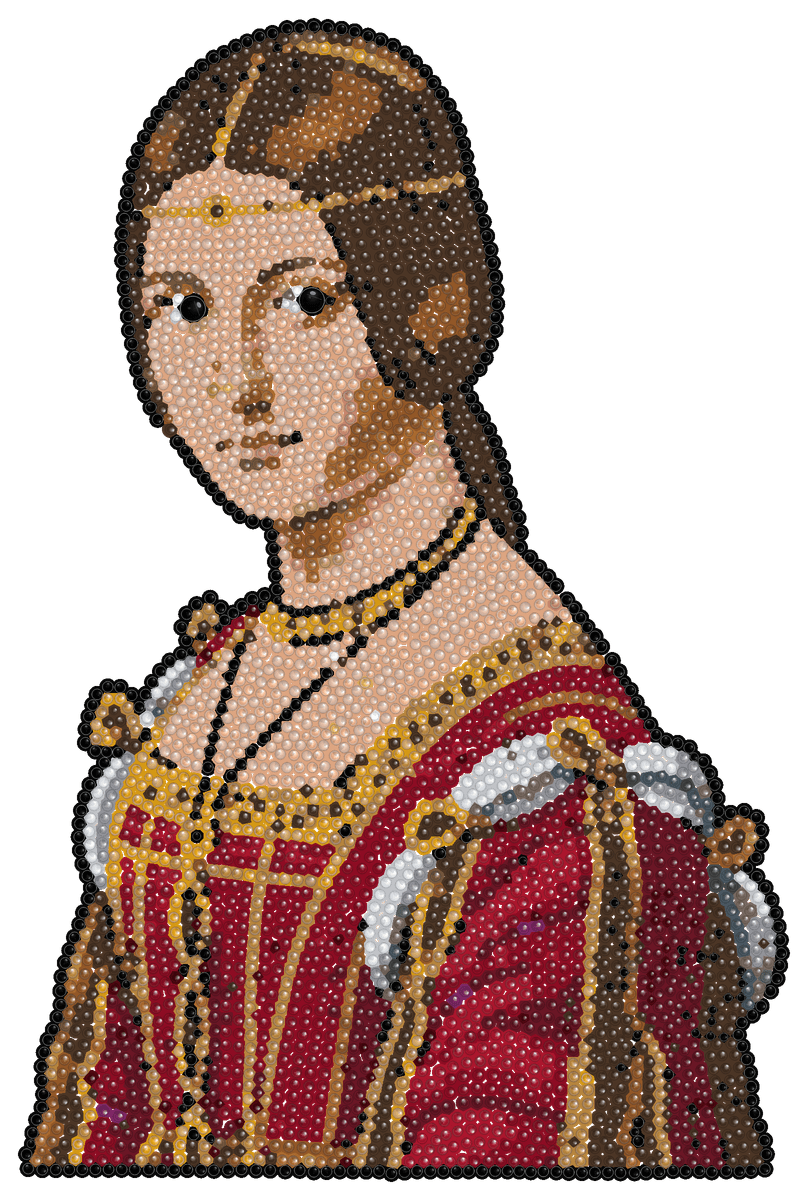
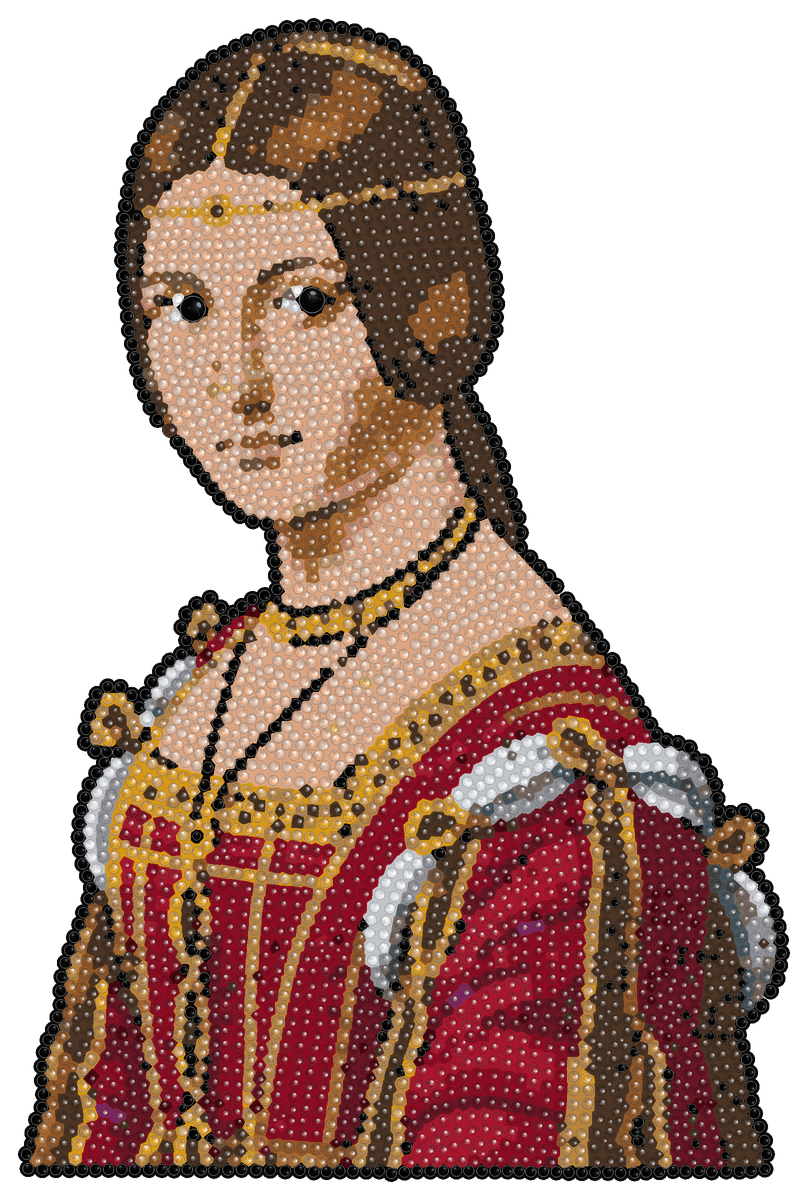
PN-04h: lone white stones in skin take the skin colour
The AI paints small pale highlights on skin (L* about 95, just outside the
snapping rules' warm hue range); they snap to Crystal Clear and read as
holes. New strass rule lone_white_skin (on in DEFAULT, after calm_skin): an
SS4/SS6 Crystal Clear, Crystal or Silver stone with at least four
neighbours, all skin colours, outside 1.5 eye-zone radii, takes its
neighbours' most common colour. Catch-lights, teeth and white areas keep
their colour; positions, sizes and other colours never change. Tests in
tests/test_pn04h.py; spec 7.4, revision line, ORIGIN.md.

make-listing-designs.mjs --replay=<attempt> draws a design again from its
stored AI image with no provider call. Replayed on the live rules, La Belle
Ferronniere came out stone for stone identical; on the new rule only her two
chest stones changed (Crystal Clear -> Silk). That design replaces the
listing one; main photo 00 and the overviews regenerated.

Changed region(s): [[0.4641, 0.5858, 0.495, 0.6167]]

diff --git a/services/strass/tests/test_pn04h.py b/services/strass/tests/test_pn04h.py
@@ -1,0 +1,81 @@
+# IS: new file, not from Rhinestone-Studio.
+"""PN-04h: Rules.lone_white_skin (on in DEFAULT only)."""
+import dataclasses
+import unittest
+
+import numpy as np
+
+from strass_layout import DEFAULT, PROTOTYPE
+from strass_layout.colour import PLUS_REAL_SKIN
+from strass_layout.distinct import SKIN
+from strass_layout.faces import WHITE, lone_white_skin
+from strass_layout.rules import BUILD_E, BUILD_F, BUILD_G, BUILD_H, BUILD_I
+from tests import support
+
+ALL = (PROTOTYPE, BUILD_E, BUILD_F, BUILD_G, BUILD_H, BUILD_I, DEFAULT)
+PAL = PLUS_REAL_SKIN
+
+
+def _hex_grid(rows, cols, pitch=2.1):
+    return np.array([[c * pitch + (r % 2) * pitch / 2, r * pitch * 0.87] for r in range(rows) for c in range(cols)])
+
+
+class Defaults(unittest.TestCase):
+    def test_only_default_has_it(self):
+        for rules in ALL:
+            self.assertEqual(rules.lone_white_skin, rules is DEFAULT)
+
+
+class LoneWhite(unittest.TestCase):
+    def setUp(self):
+        self.P = _hex_grid(5, 5)
+        self.D = np.full(len(self.P), 2.0)
+        self.mid = 12  # row 2, column 2: six neighbours
+
+    def colours(self, centre, around="silk"):
+        C = [around] * len(self.P)
+        C[self.mid] = centre
+        return C
+
+    def test_a_white_stone_in_skin_takes_the_skin_colour(self):
+        for white in sorted(WHITE):
+            out, n = lone_white_skin(self.P, self.D, self.colours(white), PAL, [])
+            self.assertEqual((out[self.mid], n), ("silk", 1), white)
+
+    def test_the_most_common_neighbour_colour_and_on_a_tie_the_lighter(self):
+        C = self.colours("crystal-clear")
+        nb = [i for i in range(len(self.P)) if i != self.mid and np.hypot(*(self.P[i] - self.P[self.mid])) < 2.7]
+        self.assertEqual(len(nb), 6)
+        for k, i in enumerate(nb):
+            C[i] = "rose-gold" if k < 4 else "light-peach"
+        self.assertEqual(lone_white_skin(self.P, self.D, C, PAL, [])[0][self.mid], "rose-gold")
+        for k, i in enumerate(nb):
+            C[i] = "copper" if k < 3 else "light-peach"
+        self.assertEqual(lone_white_skin(self.P, self.D, C, PAL, [])[0][self.mid], "light-peach")
+
+    def test_kept_near_an_eye_next_to_anything_not_skin_and_when_not_white(self):
+        x, y = self.P[self.mid]
+        self.assertEqual(lone_white_skin(self.P, self.D, self.colours("crystal-clear"), PAL, [(x + 2, y, 3.0)])[1], 0)
+        C = self.colours("crystal-clear")
+        C[self.mid + 1] = "jet"
+        self.assertEqual(lone_white_skin(self.P, self.D, C, PAL, [])[1], 0)
+        self.assertEqual(lone_white_skin(self.P, self.D, self.colours("grey"), PAL, [])[1], 0)
+        # Larger than SS6 (a pupil or a cap-sized stone) is left alone.
+        D = self.D.copy()
+        D[self.mid] = 4.7
+        self.assertEqual(lone_white_skin(self.P, D, self.colours("crystal-clear"), PAL, [])[1], 0)
+        # Only skin around it counts: white among white stays.
+        self.assertEqual(lone_white_skin(self.P, self.D, self.colours("crystal-clear", "crystal-clear"), PAL, [])[1], 0)
+
+    def test_on_a_layout_only_white_stones_become_skin(self):
+        on = support.layout_result("woman", DEFAULT)
+        off = support.layout_result("woman", dataclasses.replace(DEFAULT, lone_white_skin=False))
+        self.assertEqual([s[:3] for s in on["stones"]], [s[:3] for s in off["stones"]])
+        for a, b in zip(off["stones"], on["stones"]):
+            if a[3] != b[3]:
+                self.assertIn(a[3], WHITE)
+                self.assertIn(b[3], SKIN)
+
+
+if __name__ == "__main__":
+    unittest.main()

diff --git a/services/strass/strass_layout/faces.py b/services/strass/strass_layout/faces.py
@@ -11,6 +11,9 @@ that shade is a close neighbour on the skin ramp.
 IS (IS-05d, experiment): Rules.warm_shadow lets skin_nearest prefer Colorado Topaz to a near-tie
 Smoked Topaz; Rules.mixed_shadow (mixed_shadow, after calm_skin) alternates the two along the rows
 where the sampled colour lies between them.
+
+IS (PN-04h): Rules.lone_white_skin (lone_white_skin, after calm_skin) gives a lone white stone in
+skin, which reads as a hole, its skin neighbours' colour.
 """
 import numpy as np
 from scipy.spatial import cKDTree
@@ -98,6 +101,31 @@ def skin_nearest(D, C, lab, pal, warm_de=None):
         if new != c:
             out[i] = new
             n += 1
+    return out, n
+
+
+# IS (PN-04h): the near-white stones lone_white_skin recolours.
+WHITE = {"crystal-clear", "crystal", "silver"}
+
+
+def lone_white_skin(P, D, C, pal, eyes, nb=None):
+    """IS (PN-04h): an SS4 or SS6 WHITE stone with at least four neighbours, all of them in skin
+    colours, outside 1.5 eye-zone radii (so a pupil's catch-light stays), takes the colour most of
+    its neighbours have (on a tie the lighter one). The AI paints such a stone as a highlight on
+    skin; in stones it reads as a hole. Returns (colours, count)."""
+    nb = nb if nb is not None else _neighbours(P, D)
+    out = list(C)
+    n = 0
+    for i, c in enumerate(C):
+        if c not in WHITE or D[i] not in (1.5, 2.0) or len(nb[i]) < 4 or _near_eye(P[i], eyes, 1.5):
+            continue
+        cs = [C[j] for j in nb[i]]
+        if not all(x in SKIN for x in cs):
+            continue
+        vals, cnt = np.unique(cs, return_counts=True)
+        best = [str(v) for v, k in zip(vals, cnt) if k == cnt.max()]
+        out[i] = max(best, key=lambda k: pal.lab[pal.ids.index(k)][0])
+        n += 1
     return out, n
 
 
@@ -192,4 +220,7 @@ def finish_faces(P, D, C, pal, face, eyes, rules, lab=None):
     if rules.mixed_shadow:
         nb = nb if nb is not None else _neighbours(P, D)
         C, _ = mixed_shadow(P, D, C, lab, pal, eyes, nb)
+    if rules.lone_white_skin:
+        nb = nb if nb is not None else _neighbours(P, D)
+        C, _ = lone_white_skin(P, D, C, pal, eyes, nb)
     return C

diff --git a/services/strass/strass_layout/rules.py b/services/strass/strass_layout/rules.py
@@ -41,6 +41,11 @@ local sampled colour, on SS4/SS6 skin stones whose colour lies between the two
 (faces.mixed_shadow). The AI's shadow skin (about L* 33, chroma 43) lies between the two
 (docs/IS-05c-results.md section 2.2 in the IS repository).
 
+IS (PN-04h, not in RS): lone_white_skin gives an SS4/SS6 Crystal Clear, Crystal or Silver stone whose
+neighbours (at least four) are all skin colours, outside 1.5 eye-zone radii, its neighbours' most
+common colour (faces.lone_white_skin): the AI paints a pale highlight on skin that snaps to white and
+reads as a hole. DEFAULT has it on; PROTOTYPE and the BUILD_* rules have it off.
+
 IS (exp-holes, experiment, off everywhere including DEFAULT): fill_exact makes the fills after the
 eye stage keep GAP (0.1 mm) from every stone, checked exactly, instead of GAP + 0.05 mm on the
 raster; fill_cover_mask makes them measure the 0.7 cover on the strict subject mask they fill
@@ -74,6 +79,7 @@ class Rules:
     warm_shadow: bool = False
     warm_shadow_de: float = 1.5
     mixed_shadow: bool = False
+    lone_white_skin: bool = False
     fill_exact: bool = False
     fill_cover_mask: bool = False
 
@@ -93,4 +99,5 @@ DEFAULT = Rules(pupil_core_only=True, keep_chains=True, extra_colours=True, mean
                 soft_outlines=False, calm_skin=True, skin_nearest=True, plausible_eyes=True,
                 sample_delivered=True,  # IS (IS-05b): soft_outlines off, sample_delivered on
                 skin_nearest_inner=True,  # IS (IS-05c): human_iris off, skin_nearest_inner on
-                warm_shadow=True, warm_shadow_de=3.0)  # IS (IS-05d)
+                warm_shadow=True, warm_shadow_de=3.0,  # IS (IS-05d)
+                lone_white_skin=True)  # IS (PN-04h)

diff --git a/docs/IS-001-Spec.md b/docs/IS-001-Spec.md
@@ -41,7 +41,8 @@ details from `.env` (10, 14, 18); withdrawal consent at the first download (10);
 follow-up): paid after the design was deleted (4.1, 10, 11.3, 15.1); the AI image service's data
 terms on the privacy page (14). Revised 31 Oct 2026 (PN-04d): the tinted view fills the enclosed
 specks between stones (8, step 4b). Revised 31 Oct 2026 (PN-10): the colour prompt keeps each
-person's skin tone (7.2, prompt version 4).
+person's skin tone (7.2, prompt version 4). Revised 31 Oct 2026 (PN-04h): a lone white
+stone in skin takes its neighbours' skin colour (7.4, `lone_white_skin`).
 
 Repository: `alexdruk/imagetostrass` (local: `/Users/alex/Documents/ImageToStrass`).
 Source of reused code: `alexdruk/Rhinestone-Studio` (RS), pinned at commit `38cd831` (17 Oct 2026).
@@ -370,6 +371,15 @@ Shadow skin (IS's strass copy, IS-05d, `docs/IS-05d-results.md`): with the rule 
 `DEFAULT`, `warm_shadow_de` 3), a skin stone whose nearest skin colour is Smoked Topaz takes Colorado
 Topaz when Colorado Topaz is at most 3 ΔE2000 further from its sampled colour. Only those near ties
 change; stones, sizes, faces and pupils do not. RS 38cd831 has no such rule.
+
+Lone white stones in skin (IS's strass copy, PN-04h): with the rule `lone_white_skin` (on in `DEFAULT`,
+after `calm_skin`), an SS4 or SS6 Crystal Clear, Crystal or Silver stone with at least four
+neighbours, all of them skin colours (`distinct.SKIN`), outside 1.5 eye-zone radii, takes the colour
+most of its neighbours have (on a tie the lighter). The AI paints a small pale highlight on skin
+(L\* about 95, just outside the warm hue range of the snapping rules), which snaps to Crystal Clear
+and reads as a hole in the design. Catch-lights by the pupils, teeth and white areas (white among
+white) keep their colour; stones, sizes and every other colour do not change. RS 38cd831 has no such
+rule.
 
 Faces (IS's strass copy, IS-07a, `docs/is-07a-landmarks.md`): the service finds a face (a person,
 as opposed to an animal or no face) and the eye boxes its pupils are looked for in with MediaPipe

diff --git a/services/strass/ORIGIN.md b/services/strass/ORIGIN.md
@@ -331,3 +331,17 @@ commercial use, so the IS service replaces it with MediaPipe Face Landmarker (Ap
   package with `dlib=True` (the prototype uses dlib) and skips without it.
 - `scripts/is07a_landmarks.py` (IS diagnosis only): lays out AI images with both and records what
   differs (docs/is-07a-landmarks.md).
+
+### PN-04h (31 Oct 2026): lone white stones in skin
+
+The AI paints small pale highlights on skin (L* about 95, just outside the snapping rules' warm hue
+range); they snap to Crystal Clear and read as holes in the design.
+
+- `strass_layout/rules.py`: new rule `lone_white_skin` (default `False`, so `PROTOTYPE` and the
+  `BUILD_*` rules keep RS's behaviour); `DEFAULT` has it on. Docstring note.
+- `strass_layout/faces.py`: `WHITE` and `lone_white_skin(P, D, C, pal, eyes, nb=None)`: an SS4 or SS6
+  Crystal Clear, Crystal or Silver stone with at least four neighbours, all in `distinct.SKIN`,
+  outside 1.5 eye-zone radii, takes its neighbours' most common colour (on a tie the lighter).
+  `finish_faces` runs it last, after `calm_skin` (and `mixed_shadow`). Docstring note.
+- `tests/test_pn04h.py` (new): the rule on a stone grid and on a layout (only white stones become
+  skin colours; positions and sizes unchanged).
